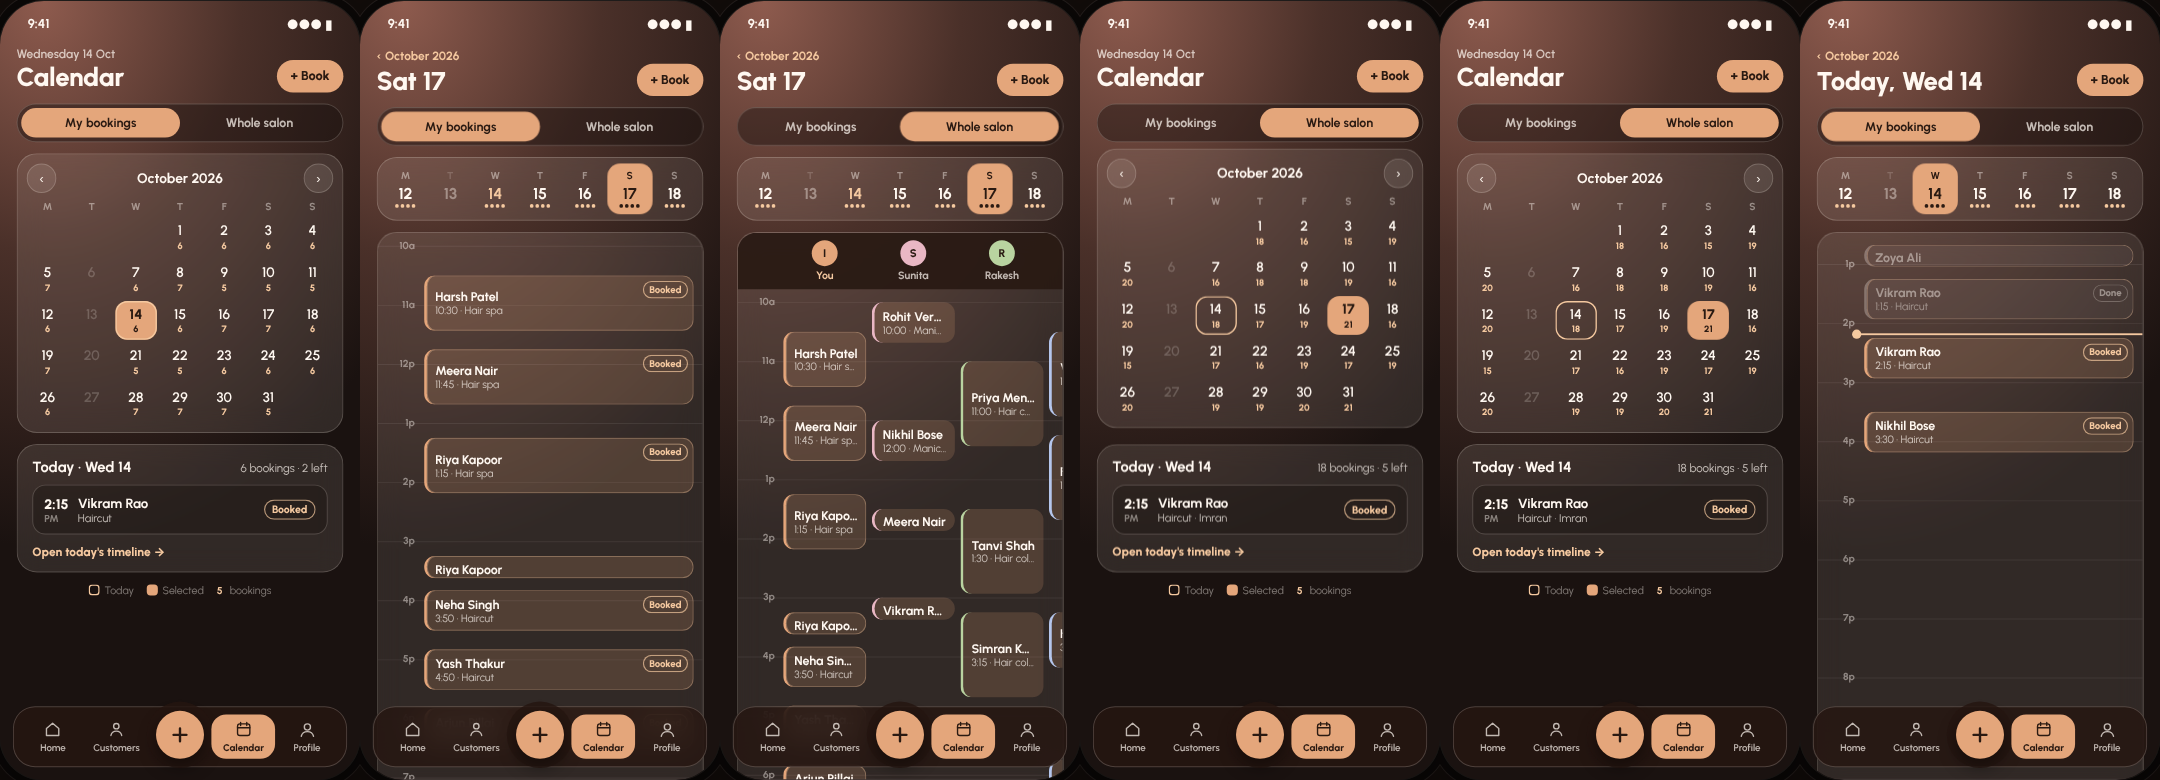
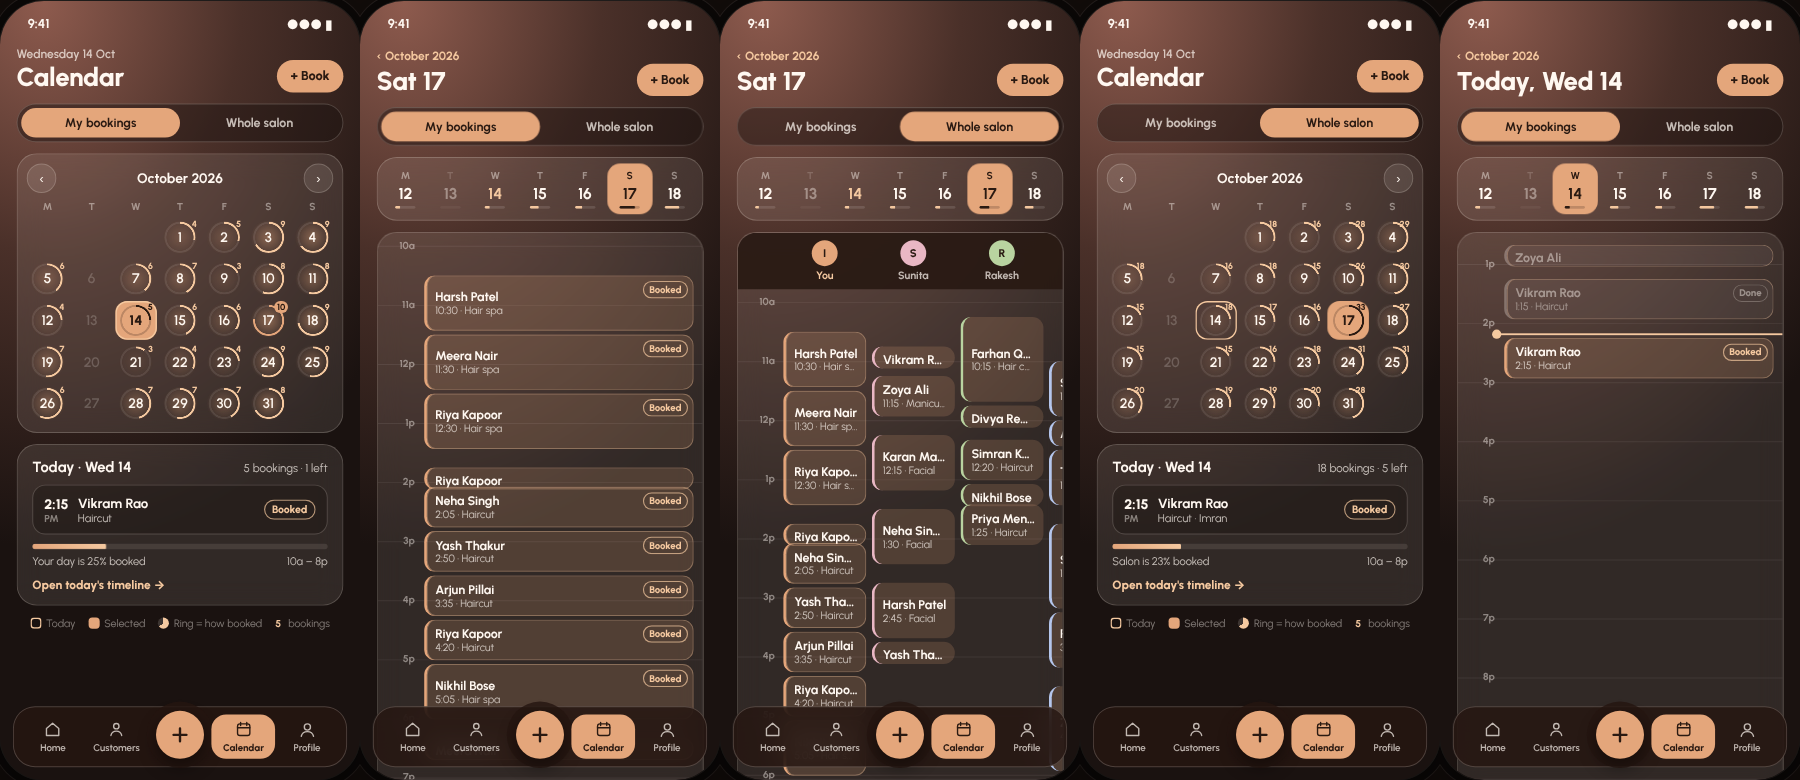
Staff calendar: booking load rings, glow and ripple-in effect on busy days
Claude-Session: https://claude.ai/code/session_01BjSSchZsy6gAdMxf188SpF

diff --git a/salon-mobile/design-studies/staff-calendar-final.html b/salon-mobile/design-studies/staff-calendar-final.html
@@ -216,6 +216,31 @@ h2{font-size:21px;font-weight:700;margin:46px 0 10px}
 .legend i{width:12px;height:12px;border-radius:4px;display:inline-block}
 .back{display:inline-flex;align-items:center;gap:4px;font-size:13px;font-weight:700;color:var(--gold2);padding:2px 0}
 .ttl.sw{animation:inU 240ms var(--out) both}
+
+/* booking effects: a ring around each day fills to how booked it is, a warm glow by load; both sweep in once, rippling out from today */
+@property --p{syntax:'<number>';inherits:false;initial-value:0}
+.mg .cell b{position:relative;z-index:1;font-weight:inherit}
+.mg .cell i{position:absolute;z-index:1;top:0;right:1px;font-size:9.5px;line-height:13px;min-height:0;padding:0 3px;border-radius:999px}
+.mg .cell .ring{position:absolute;left:50%;top:50%;width:34px;height:34px;margin:-17px 0 0 -17px;border-radius:50%;
+  background:conic-gradient(var(--gold2) calc(var(--p)*1turn),rgba(255,244,236,.09) 0);
+  -webkit-mask:radial-gradient(farthest-side,transparent calc(100% - 2.6px),#000 calc(100% - 2px));mask:radial-gradient(farthest-side,transparent calc(100% - 2.6px),#000 calc(100% - 2px))}
+.mg .cell.has::before{content:"";position:absolute;inset:3px;border-radius:12px;background:radial-gradient(circle,rgba(228,166,123,calc(.06 + var(--h)*.55)),transparent 72%)}
+.mg .cell.full i{background:var(--gold);color:var(--ink)}
+.mg .cell.full .ring{background:conic-gradient(var(--gold) calc(var(--p)*1turn),rgba(255,244,236,.09) 0)}
+.mg .cell.sel::before{opacity:0}
+.mg .cell.sel .ring{background:conic-gradient(var(--ink) calc(var(--p)*1turn),rgba(42,26,18,.22) 0)}
+.mg .cell.sel i{color:var(--ink);background:none}
+@keyframes sweep{from{--p:0}}
+@keyframes glow{from{opacity:0;transform:scale(.7)}}
+.cells.fx .ring{animation:sweep 700ms var(--out) both;animation-delay:calc(var(--d,0) * 24ms)}
+.cells.fx .cell.has::before{animation:glow 520ms var(--out) both;animation-delay:calc(var(--d,0) * 24ms)}
+.strip .wd .lb{width:22px;height:3px;border-radius:3px;background:rgba(255,244,236,.12);overflow:hidden;margin-top:2px}
+.strip .wd .lb i{display:block;height:100%;border-radius:3px;background:var(--gold2);transform-origin:left;transform:scaleX(var(--p));animation:fill 520ms var(--out) both;animation-delay:calc(var(--d,0) * 40ms)}
+.strip .wd.sel .lb{background:rgba(42,26,18,.2)}.strip .wd.sel .lb i{background:var(--ink)}
+@keyframes fill{from{transform:scaleX(0)}}
+.lbar{height:6px;border-radius:6px;background:rgba(255,244,236,.1);overflow:hidden}
+.lbar i{display:block;height:100%;border-radius:6px;background:linear-gradient(90deg,var(--gold),var(--gold2));transform-origin:left;transform:scaleX(var(--p));animation:fill 700ms var(--out) 150ms both}
+.lrow{display:flex;justify-content:space-between;font-size:12px;color:var(--soft);margin-top:-4px}
 </style>
 
 <div class="wrap">
@@ -224,7 +249,7 @@ h2{font-size:21px;font-weight:700;margin:46px 0 10px}
   <div class="solo">
     <figure style="max-width:360px"><div class="phone" id="pF"></div></figure>
     <div class="steps">
-      <div><b><i>1</i>Opens on the month</b><p>Each day shows how many bookings it has; today is ringed, Tuesdays are faded. Below it, a Today card shows bookings left and who's next. ‹ › changes month.</p></div>
+      <div><b><i>1</i>Opens on the month</b><p>Every day with bookings gets a glow and a gold ring that fills to how booked it is, with the booking count in the corner; nearly full days (75%+) turn solid gold. When the month opens, the rings sweep in once, rippling out from today. Tuesdays are faded. Below, the Today card shows who's next and how full the day is. ‹ › changes month.</p></div>
       <div><b><i>2</i>Tap a day</b><p>The gold highlight moves to the day. The other weeks fade out and the month folds up into a single row: that week. The day's timeline fades in under it. Tapping the Today card does the same for today.</p></div>
       <div><b><i>3</i>The day (setup B)</b><p>Hours down the side, bookings as blocks sized to their length, a gold line at the current time. Tap another day in the strip; swipe the strip for the next week, or the timeline for the next day.</p></div>
       <div><b><i>4</i>Whole salon</b><p>The same switch as before. In the day view it shows one column per stylist, so they can see who is free for a walk-in. On the month it changes the counts.</p></div>
@@ -258,12 +283,12 @@ function day(d){
   const out=[]; if(d.getDay()===2)return cache[k]=out;
   const r=rng(k);
   STY.forEach((s,si)=>{
-    let t=600+Math.floor(r()*5)*15; const n=si===0?5+Math.floor(r()*3):2+Math.floor(r()*3);
+    let t=600+Math.floor(r()*5)*15; const we=d.getDay()===0||d.getDay()===6,n=si===0?(we?8+Math.floor(r()*3):3+Math.floor(r()*5)):(we?4:2)+Math.floor(r()*3);
     for(let i=0;i<n;i++){
       const sv=s.svc[Math.floor(r()*s.svc.length)], [dur,price]=SVC[sv];
       if(t+dur>1185)break;
       out.push({id:k+'-'+si+'-'+i,date:d,start:t,dur,svc:sv,price,sty:s.n,cust:CUST[Math.floor(r()*CUST.length)],visit:1+Math.floor(r()*12)});
-      t+=dur+15*(si===0?1+Math.floor(r()*4):1+Math.floor(r()*6));
+      t+=dur+15*(we?Math.floor(r()*2):si===0?1+Math.floor(r()*4):1+Math.floor(r()*6));
     }
   });
   return cache[k]=out.sort((a,b)=>a.start-b.start);
@@ -303,11 +328,13 @@ function placePill(pill,cell,instant){
   pill.style.transform=`translate(${cell.offsetLeft}px,${cell.offsetTop}px)`;pill.style.opacity=1;
   if(instant){pill.offsetWidth;pill.classList.remove('jump')}
 }
+const load=(d,mode)=>Math.min(1,list(d,mode).reduce((a,b)=>a+b.dur,0)/((H1-H0)*60*(mode==='all'?STY.length:1)));
 function monthCells(m,mode,sel){
   const first=new Date(m.getFullYear(),m.getMonth(),1), lead=(first.getDay()+6)%7, n=new Date(m.getFullYear(),m.getMonth()+1,0).getDate();
   let h='';for(let i=0;i<lead;i++)h+='<span></span>';
   for(let d=1;d<=n;d++){const dt=new Date(m.getFullYear(),m.getMonth(),d),off=dt.getDay()===2,c=off?0:list(dt,mode).length;
-    h+=`<button class="cell${off?' off':''}${same(dt,TODAY)?' today':''}${sel&&same(dt,sel)?' sel':''}" data-k="${key(dt)}" aria-label="${d} ${MON[m.getMonth()]}${off?', closed':', '+c+' bookings'}">${d}<i>${off?'':c||''}</i></button>`}
+    const L=off?0:load(dt,mode),dist=m.getMonth()===TODAY.getMonth()?Math.abs(d-TODAY.getDate()):d;
+    h+=`<button class="cell${off?' off':''}${c?' has':''}${L>=.75?' full':''}${same(dt,TODAY)?' today':''}${sel&&same(dt,sel)?' sel':''}" style="--d:${dist};--h:${L.toFixed(2)}" data-k="${key(dt)}" aria-label="${d} ${MON[m.getMonth()]}${off?', closed':', '+c+' bookings, '+Math.round(L*100)+'% booked'}">${off?'':`<span class="ring" style="--p:${L.toFixed(3)}"></span>`}<b>${d}</b><i>${off?'':c||''}</i></button>`}
   return h;
 }
 const HEADS=`<div class="heads">${['M','T','W','T','F','S','S'].map(x=>`<span>${x}</span>`).join('')}</div>`;
@@ -353,7 +380,7 @@ function refresh(b){
     <div class="stage">
       <div class="mv" id="fM"><div class="glass mg"><div class="bar"><button class="arw press" data-d="-1" aria-label="Previous month">‹</button><b></b><button class="arw press" data-d="1" aria-label="Next month">›</button></div>${HEADS}<div class="cw" style="position:relative"><span class="pill"></span><div class="cells"></div></div></div>
         <button class="glass tcard press" id="fC"></button>
-        <div class="legend"><span><i style="box-shadow:inset 0 0 0 1.5px var(--gold2)"></i>Today</span><span><i style="background:var(--gold)"></i>Selected</span><span><b style="color:var(--gold2);font-size:11px">5</b>&nbsp;bookings</span></div></div>
+        <div class="legend"><span><i style="box-shadow:inset 0 0 0 1.5px var(--gold2)"></i>Today</span><span><i style="background:var(--gold)"></i>Selected</span><span><i style="border-radius:50%;background:conic-gradient(var(--gold2) 65%,rgba(255,244,236,.15) 0)"></i>Ring = how booked</span><span><b style="color:var(--gold2);font-size:11px">5</b>&nbsp;bookings</span></div></div>
       <div class="dv" id="fD" hidden><div class="glass strip"><span class="pill"></span><div class="sd" style="display:contents"></div></div><div class="tl glass"><div class="tlb"></div></div></div>
     </div>`);
   const $=s=>inner.querySelector(s);
@@ -364,7 +391,7 @@ function refresh(b){
   function title(t){if(T.textContent===t)return;T.textContent=t;T.classList.remove('sw');T.offsetWidth;T.classList.add('sw')}
   // month view
   function grid(dir){
-    cells.innerHTML=monthCells(m,mode,sel);cells.className='cells'+(dir>0?' enR':dir<0?' enL':'');
+    cells.innerHTML=monthCells(m,mode,sel);cells.className='cells fx'+(dir>0?' enR':dir<0?' enL':'');
     mv.querySelector('.bar b').textContent=MON[m.getMonth()]+' '+m.getFullYear();
     requestAnimationFrame(()=>placePill(mpill,cells.querySelector('.sel'),true));
     todayCard();
@@ -373,7 +400,7 @@ function refresh(b){
     const bs=list(TODAY,mode),left=bs.filter(b=>status(b)!=='done'),nx=left.find(b=>status(b)==='booked'||status(b)==='arrived')||left[0];
     $('#fC').innerHTML=`<div class="r1"><b>Today · Wed 14</b><span>${bs.length} bookings · ${left.length} left</span></div>`+
       (nx?`<div class="nx"><span class="tm">${fmt(nx.start)}<small>${ap(nx.start)}</small></span><span><b style="font-size:14.5px">${nx.cust}</b><div style="font-size:12px;color:var(--soft)">${nx.svc}${mode==='all'?' · '+nx.sty:''}</div></span>${chip(nx)}</div>`:'')+
-      `<span class="go">Open today's timeline →</span>`;
+      `<div class="lbar"><i style="--p:${load(TODAY,mode).toFixed(3)}"></i></div><div class="lrow"><span>${mode==='all'?'Salon':'Your day'} is ${Math.round(load(TODAY,mode)*100)}% booked</span><span>10a – 8p</span></div><span class="go">Open today's timeline →</span>`;
   }
   function headMonth(){back.hidden=true;sub.hidden=false;sub.textContent=WDL[TODAY.getDay()]+' '+TODAY.getDate()+' Oct';title('Calendar')}
   function headDay(){back.hidden=false;sub.hidden=true;back.querySelector('span').textContent=MON[sel.getMonth()]+' '+sel.getFullYear();
@@ -411,7 +438,7 @@ function refresh(b){
   function week(dir,instant){
     const w0=mon(sel);let h='';
     for(let i=0;i<7;i++){const d=addD(w0,i),off=d.getDay()===2,n=off?0:list(d,mode).length;
-      h+=`<button class="wd${off?' off':''}${same(d,TODAY)?' today':''}${same(d,sel)?' sel':''}${dir?(dir>0?' enR':' enL'):''}" data-k="${key(d)}" aria-label="${WDL[d.getDay()]} ${d.getDate()}"><small>${WD[d.getDay()][0]}</small><b>${d.getDate()}</b><span class="dots">${'<i></i>'.repeat(Math.min(n,4))}</span></button>`}
+      h+=`<button class="wd${off?' off':''}${same(d,TODAY)?' today':''}${same(d,sel)?' sel':''}${dir?(dir>0?' enR':' enL'):''}" data-k="${key(d)}" aria-label="${WDL[d.getDay()]} ${d.getDate()}"><small>${WD[d.getDay()][0]}</small><b>${d.getDate()}</b><span class="lb">${off?'':`<i style="--p:${load(d,mode).toFixed(3)};--d:${i}"></i>`}</span></button>`}
     S.innerHTML=h;requestAnimationFrame(()=>placePill(spill,S.querySelector('.sel'),instant||!!dir));
   }
   function timeline(dir){

diff --git a/salon-mobile/BUILD-SPEC.md b/salon-mobile/BUILD-SPEC.md
@@ -57,7 +57,7 @@ Where things live:
 | 4.7 | **Receipt**: PAID stamp, WhatsApp thank-you (with referral code only if opted in), Next customer, **Undo for 2 minutes** | Logic · Designed |
 | 4.8 | **No "walk-in without number"** | Decided |
 | 4.9 | **Staff bottom bar (user, 20 Oct): Home · Customers · gold + (customer walked in) · Calendar · Profile.** Home unchanged. **Customers = same design as the owner's Customers tab**, with **Reminders inside it** (no separate Reminders tab). New **Calendar** tab and new **own Profile** tab. Design: `design-studies/staff-tabs.html` | Decided · Designed |
-| 4.10 | **Staff Calendar tab (user, 20 Oct): opens on the month** (booking count per day, today ringed, Tuesday faded, Today card with bookings left and who's next). **Tapping a day folds the month into that week's strip and opens the day as a timeline** (setup B: hours down the side, blocks sized to length, current-time line; swipe for next day/week). My bookings / Whole salon on both; Whole salon day = one column per stylist. Tap a booking → bottom sheet with Mark arrived. "‹ October" unfolds back to the month. Motion: fold 340 ms, day enters 260 ms, no loops, reduce-motion = instant. Design: `design-studies/staff-calendar-final.html` (options considered: `staff-calendar-motion.html`) | Decided · Designed |
+| 4.10 | **Staff Calendar tab (user, 20 Oct): opens on the month** (booking count per day, today ringed, Tuesday faded, Today card with bookings left and who's next). **Tapping a day folds the month into that week's strip and opens the day as a timeline** (setup B: hours down the side, blocks sized to length, current-time line; swipe for next day/week). My bookings / Whole salon on both; Whole salon day = one column per stylist. Tap a booking → bottom sheet with Mark arrived. "‹ October" unfolds back to the month. Motion: fold 340 ms, day enters 260 ms, no loops, reduce-motion = instant. **Booking effects (user, 20 Oct):** every day with bookings gets a gold ring that fills to how booked it is (booked minutes ÷ 10 a.m.–8 p.m.; Whole salon = all stylists), a warm glow that grows with load, and the count in the corner; 75%+ days turn solid gold. Rings sweep in once when the month opens, rippling out from today (700 ms, 24 ms per day). Week strip shows a small load bar per day; Today card shows "Your day is N% booked". Design: `design-studies/staff-calendar-final.html` (options considered: `staff-calendar-motion.html`) | Decided · Designed |
 | 4.10 | **Refer** moved into each customer's profile (no longer in the bar) | Decided |
 | 4.11 | Customers list + profile (visits, wallet history, referral code) | Logic |
 | 4.12 | **Reminders** (per-service due dates, WhatsApp message, only to opted-in customers) | Logic |
